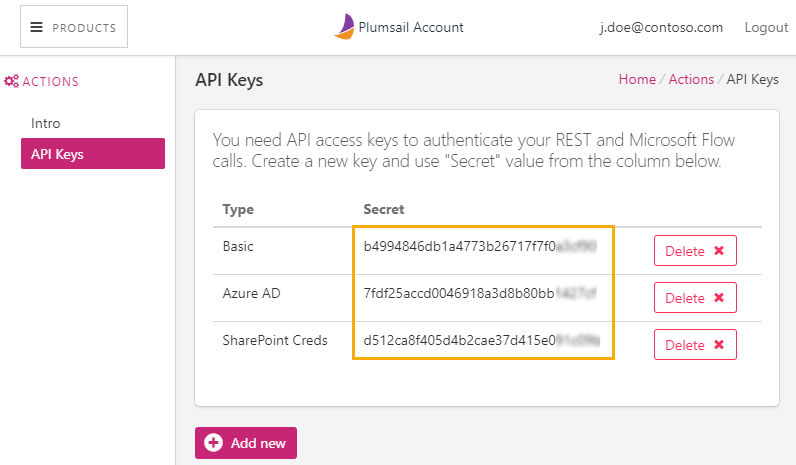
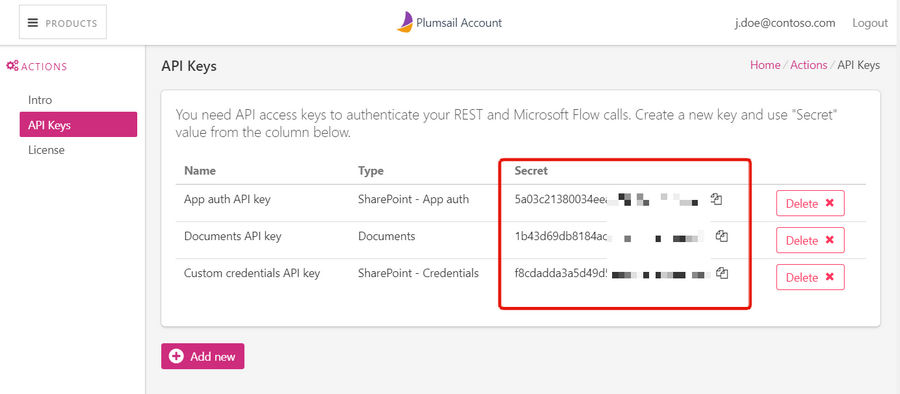
changed sign up how-to

diff --git a/source/getting-started/sign-up.rst b/source/getting-started/sign-up.rst
@@ -21,29 +21,30 @@ You need to navigate to the "API Keys" section and click "Add new". Then select 
 API Key for Documents actions
 ~~~~~~~~~~~~~~~~~~~~~~~~~~~~~
 
-If you want to use `Plumsail Documents connector <../flow/actions/document-processing.html>`_ in Microsoft Flow or `Documents processing REST API <../rest-api/index.html>`_, you need to select "Basic" type of API key and click "Submit":
+If you want to use `Plumsail Documents connector <https://plumsail.com/actions/documents/>`_ in Microsoft Flow or `Documents processing REST API <../rest-api/index.html>`_, you need to select "Documents" type of API key and click "Submit".
+You can also specify the name of the key:
 
-.. image:: ../_static/img/getting-started/add-basic-api-key.png
+.. image:: ../_static/img/getting-started/add-documents-key.png
    :alt: API keys
 
 API Key for SharePoint actions
 ~~~~~~~~~~~~~~~~~~~~~~~~~~~~~~
 
-If you want to use `Plumsail SharePoint connector <../flow/actions/sharepoint-processing.html>`_ in Microsoft Flow or `SharePoint processing REST API <../rest-api/index.html>`_, you have two options:
+If you want to use `Plumsail SharePoint connector <https://plumsail.com/actions/sharepoint/>`_ in Microsoft Flow or `SharePoint processing REST API <../rest-api/index.html>`_, you have two options:
 
-- SharePoint Admin
-- SharePoint Credentials
+- SharePoint - App auth
+- SharePoint - Custom credentials
 
 |
 
-**SharePoint Admin** authenticates Actions as an app in your SharePoint tennant. You need to fill domain of your SharePoint Online, click "Grant permissions" and then click "Accept" in the opened window. You may need to allow your browser to open popup windows. Then, don't forget to click "Submit" to save the key.
+**SharePoint - App auth** authenticates Actions as an app in your SharePoint tennant. You need to fill domain of your SharePoint Online, click "Submit" and then click "Accept" in the opened window. You may need to allow your browser to open popup windows.
 
-.. image:: ../_static/img/getting-started/add-sp-admin-api-key.png
+.. image:: ../_static/img/getting-started/add-app-auth-api-key.png
    :alt: API keys
 
 |
 
-**SharePoint Credentials** allows SharePoint actions to work under account of specific user. You need to fill account name and password for your user:
+**SharePoint - Custom credentials** allows SharePoint actions to work under account of specific user. You need to fill account name and password for your user:
 
 .. image:: ../_static/img/getting-started/add-sp-credentials-api-key.png
    :alt: API keys
@@ -51,7 +52,7 @@ If you want to use `Plumsail SharePoint connector <../flow/actions/sharepoint-pr
 Copy and use API key
 --------------------
 
-Once you created and API key, you can see your key right in the "Secret" column:
+Once you created an API key, you can see your key right in the "Secret" column. You can also change a name of a key by clicking on it in the "Name" column:
 
 .. image:: ../_static/img/getting-started/copy-api-key.png
    :alt: API keys
